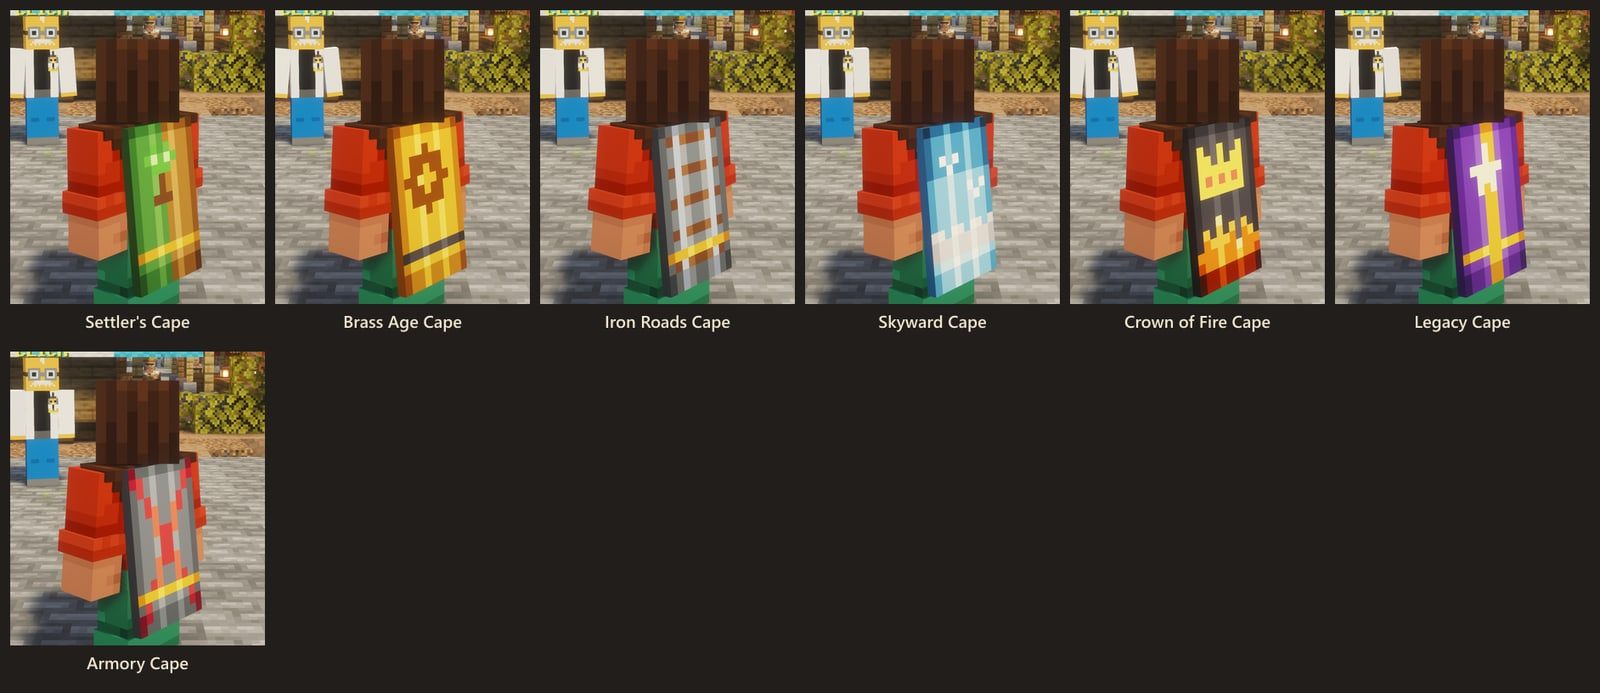
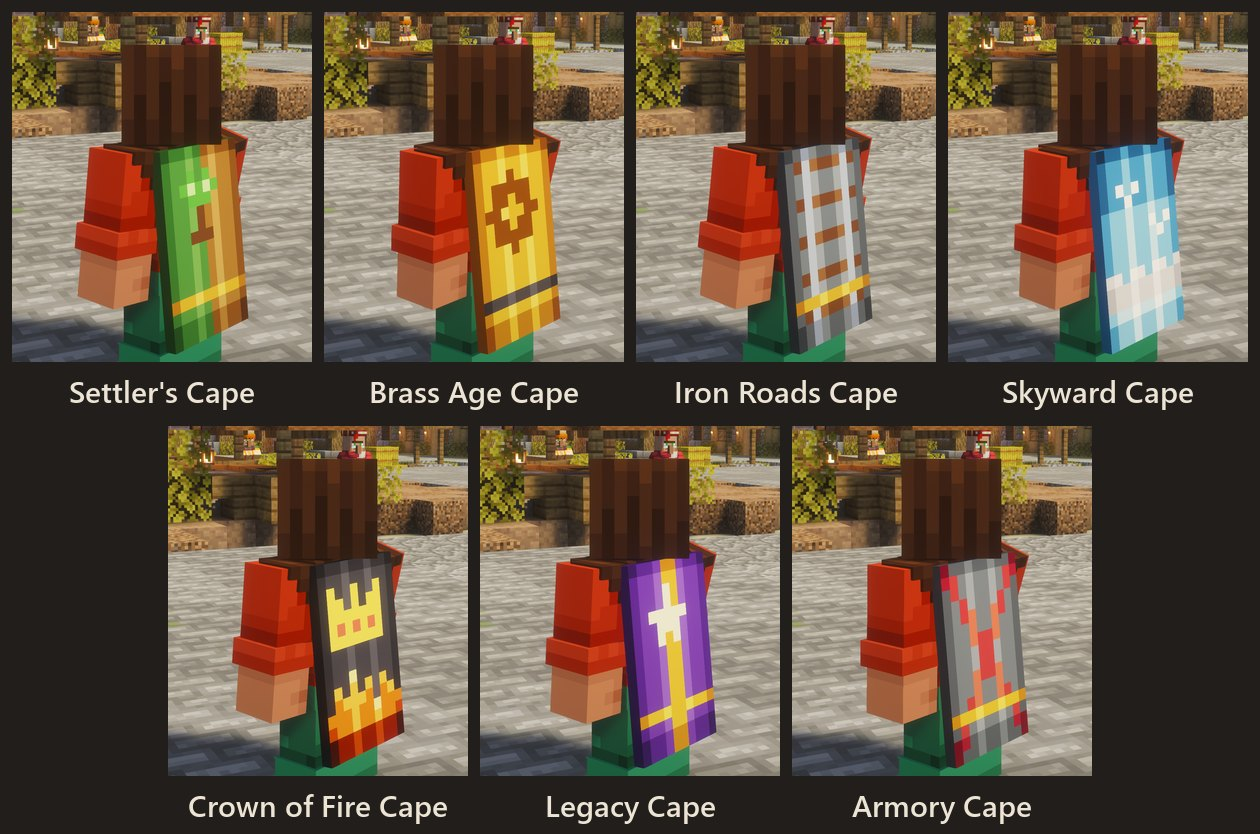
Wiki: new pictures from a fullscreen photo session
Every cape worn again, now with the Brewing and Construction capes and the
redrawn Infernal Cape (still and animated); new pictures of capes on armor
stands, the collection screen and the Curios Cape slot; the inventory, the
coin tooltip and both shop pictures with the redrawn coins; the Mason's
Palette's picker; a mechanical drill held back at Mining 1; /hiscores in
chat. The in-game guide's inventory and shop pictures follow.

diff --git a/docs/skills.md b/docs/skills.md
@@ -51,6 +51,9 @@ Construction is building. Every block you place pays XP once it has stood for a 
 - **Saving blocks.** Each Construction level adds a 0.1 % chance that a block you place goes back in your bag (almost 10 % at 99). A block the perk saved you is free: if it's broken later it drops nothing, so it can never be turned into more than you had. It only ever saves building blocks: never storage blocks (iron, gold, diamond and the rest, modded ones too), beacon bases, ores, copper of any kind, coin stacks or amethyst, and never anything that holds items or has contents (chests, shulker boxes, backpacks, machines).
 - **Decorative blocks in bulk.** Construction unlocks recipes of its own at the crafting table: ten stone bricks from eight stone and a clay ball, mossy and cracked kinds without a furnace, eight stairs where vanilla gives four, a lantern for less iron. The guide below lists them all.
 - **The Mason's Palette** comes with the Construction Cape at 99. Right-click the air to open it and choose a block, then right-click to place as many as you like: none are used up. Middle-click a block to choose that kind. It holds stone of every kind, deepslate, tuff, blackstone, sandstone, bricks, quartz, purpur, prismarine, concrete, terracotta, glass, Create's cut stone, Create Deco and the stone and metal blocks of Macaw's mods, and a few decorations (lanterns, chains, bars, end rods, lecterns).
+
+<figure><img src="images/masons_palette.jpg" alt="The Mason's Palette's picker: block categories down the left, the Stone category's blocks on the right"><figcaption><p>The Mason's Palette's picker</p></figcaption></figure>
+
 - **Why it can't be farmed.** What the palette places drops nothing when broken, and stays put: pistons and Create's contraptions won't move it, an explosion or a drill takes it without drops, and it rides an airship without losing that. It never places anything you'd otherwise grow or gather (no wood, wool, crops or ores), nothing that falls, holds items or weathers, nothing with redstone, and nothing Create can crush, mill or wash into something else. Lost it? Gerta the Mason in Lemurton makes another for 10,000 coins.
 
 ## Using gear
@@ -74,6 +77,9 @@ Like a RuneScape skill guide: the level each thing needs.
 - **Making things.** If a recipe needs a level you don't have, its result stays in the crafting grid (or the smithing table, or the cooking pot) and a message says what it takes. The item's tooltip says it too. Create's crafting blueprint asks the same of whoever clicks it.
 - **Create's machines** each wait on the skill they take over: Mining for drills, Woodcutting for saws, Farming for harvesters and ploughs, Cooking for fans, Crafting for mechanical crafters, Construction for the schematicannon, Smithing for steam engines, Agility for trains and Enchanting for the blaze enchanter and the printer. The [Create machines](#create-machines) table lists them by level. Anyone can use a machine someone else made.
 - **Machines.** The Crafter and Create's mechanical crafters, mixer and press have nobody to ask, so they won't make anything on these lists or use a recipe that waits on a level, and the mixer won't brew with an ingredient past Brewing 1. Those you make yourself.
+
+<figure><img src="images/skill_gate.jpg" alt="A crafting table with a mechanical drill's recipe: the drill sits in the result slot, and its tooltip says making it needs Mining 15"><figcaption><p>A mechanical drill at Mining 1: the result stays in the grid</p></figcaption></figure>
+
 - **Brewing stands and cooking pots** that hoppers feed work at the level of whoever last opened them. An ingredient you aren't ready for won't go into a stand by hand.
 - **Enchantments** past their vanilla level need two skills: Enchanting to make them, and the gear's own skill to use them. Fishing for Luck of the Sea and Lure, Mining for Fortune and Efficiency, Attack for Sharpness and Looting, Ranged for Power, Defence for Protection, Agility for Feather Falling. See [Enchanting](enchanting.md).
 

diff --git a/docs/capes.md b/docs/capes.md
@@ -15,6 +15,12 @@ Capes are items you earn. When you earn one it goes into your bag. Everyone on t
 - **Show it off:** right-click an **armor stand** with a cape to hang it there (the one already on it comes back to you). Sneak and right-click the stand with an empty hand to take it back. A broken stand drops its cape. Any cape can go on a stand, earned or not.
 - **Your collection:** ESC → Capes, or `/capes`. Every cape there is: the ones you have, how to earn the rest (with how far along you are), each perk, and where to get another if you lose one. It also puts a cape from your bag on, or takes yours off.
 
+<figure><img src="images/capes_collection.jpg" alt="The Capes screen: every cape by kind with how many are earned, and the chosen cape's picture, how to earn it, its perk and who makes another"><figcaption><p>ESC → Capes: your collection</p></figcaption></figure>
+
+<figure><img src="images/capes_slot.jpg" alt="The inventory with the Curios panel open: the Infernal Cape in the Cape slot, and an Agility Cape's tooltip in the bag"><figcaption><p>The Cape slot in the Curios panel, and a cape's tooltip</p></figcaption></figure>
+
+<figure><img src="images/capes_stands.jpg" alt="Five armor stands in Lemurton's square, each in a gear set with a cape hung on its back"><figcaption><p>Capes on armor stands</p></figcaption></figure>
+
 Unlocks announce themselves in chat. On death a cape goes where the rest of your things go (your grave).
 
 ## Skill capes

diff --git a/docs/hiscores.md b/docs/hiscores.md
@@ -20,6 +20,10 @@ Everyone who plays on the server is on the hiscores, ranked like RuneScape's: ev
 
 Each table shows the top ten and where you are. Click a name for that player's hiscores, a group to see its tables, or **On the website** to open the table on play.limas.ca.
 
+<figure><img src="images/hiscores_tables.jpg" alt="Chat showing the Overall and Mining tables, the groups to click, and the boss tables"><figcaption><p>/hiscores, /hiscores mining and /hiscores bosses</p></figcaption></figure>
+
+<figure><img src="images/hiscores_player.jpg" alt="Chat showing one player's hiscores: overall rank, total level and XP, combat level, every skill, bosses, activities and collections"><figcaption><p>/hiscores player: one player's hiscores</p></figcaption></figure>
+
 ## How the ranking works
 
 - **Overall** ranks by total level, and total XP between players on the same total. **Skills** rank by XP. Everything else ranks by count.
